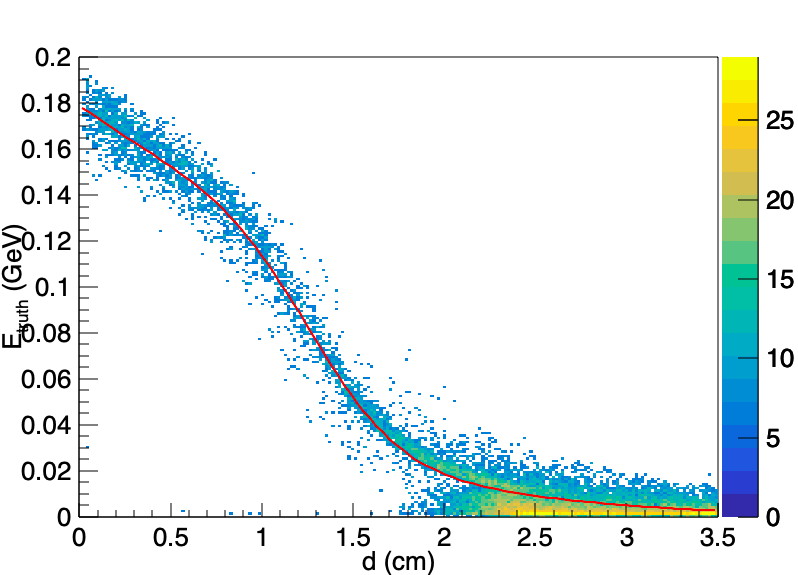
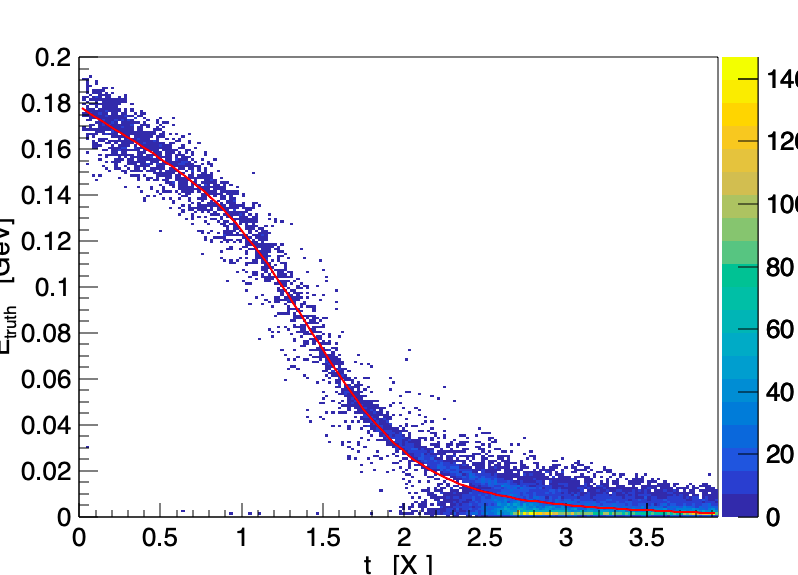
Backup: 2021年 1月31日 星期日 20时20分17秒 CST

diff --git a/Fit_DigiEnergy_cp.C b/Fit_DigiEnergy_cp.C
@@ -51,9 +51,9 @@ int Fit_DigiEnergy_cp(std::string dir_name, const char title[30], Int_t NO_Angle
     
     string str;
     Int_t N = 0;
-    Double_t distance_cut = 4;
+    Double_t distance_cut = 3.5/X0;
     
-    TH2D* h = new TH2D("Hist","h",200,0,distance_cut,200,0,Energy);
+    TH2D* h = new TH2D("Hist","h",200,0,distance_cut,200,0,(Energy));
     h->SetMarkerStyle(7);
     h->SetMarkerColorAlpha(kAzure+3, 0.5);
     h->GetYaxis()->SetTitle("E_{truth}   [GeV]");
@@ -69,7 +69,7 @@ int Fit_DigiEnergy_cp(std::string dir_name, const char title[30], Int_t NO_Angle
         //if (angle>10 || angle<0) continue;
         if (distance > distance_cut) continue;
         //g->SetPoint(N,distance,energy);
-        h->Fill(distance/X0,energy);
+        h->Fill(distance/X0,(energy));
         //g->SetPoint(N,distance,energy);
         N++;
     }
@@ -79,7 +79,7 @@ int Fit_DigiEnergy_cp(std::string dir_name, const char title[30], Int_t NO_Angle
         for (int j = 1; j < 201; j++){
             if (N < 30000) {if (h->GetBinContent(i,j)<2) h->SetBinContent(i,j,0);}
             else if (h->GetBinContent(i,j)<=2) h->SetBinContent(i,j,0);
-            if (h->GetBinContent(i,j) != 0) h->SetBinContent(i, j, (int)(6*TMath::Log(h->GetBinContent(i,j))));
+            //if (h->GetBinContent(i,j) != 0) h->SetBinContent(i, j, (int)(6*TMath::Log(h->GetBinContent(i,j))));
         }
     }
     
@@ -92,6 +92,7 @@ int Fit_DigiEnergy_cp(std::string dir_name, const char title[30], Int_t NO_Angle
 
     //f->SetParameters(1, 0.6, 5, 3.37, 1.45);
     c1->cd();
+    //c1->SetLogx();
     //g->Draw("AP.");
     //g->Fit(f,"R");
     h->Draw("PCOLZ");
@@ -101,6 +102,7 @@ int Fit_DigiEnergy_cp(std::string dir_name, const char title[30], Int_t NO_Angle
     //par_file << str_Energy << " " << f->GetParameter(0) << " " << f->GetParameter(1) << " " << f->GetParameter(2) << " " << f->GetParameter(3) << " " << f->GetParameter(4) << endl;
     //else par_file << str_Energy << " " << f->GetParameter(0) << " " << f->GetParameter(3) << " " << f->GetParameter(4) << " " << f->GetParameter(1) << " " << f->GetParameter(2) << endl;
 
+    //c1->SetLogx();
     //c1->SetLogy();
     TString picture_name= "doc/A"+str_NO_Angle+"_FitPicture_cp/A"+str_NO_Angle+"_E"+str_Energy+"_FitPar_cp.png";
     c1->Print(picture_name);
